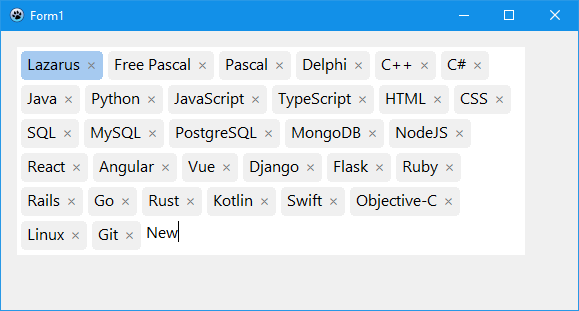
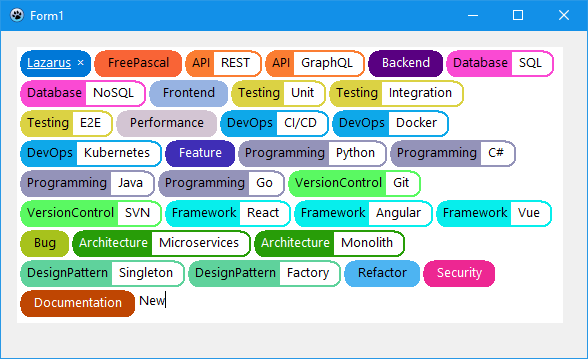
Update README.md

diff --git a/README.md b/README.md
@@ -12,6 +12,7 @@ A versatile tag management control for Lazarus/FPC with advanced features.
 
 - **🏷 Tag Management**
   - Add tags by typing and pressing Enter
+  - Tags with suffix
   - Remove tags with click confirmation
   - Prevent duplicate tags
 
@@ -24,6 +25,8 @@ A versatile tag management control for Lazarus/FPC with advanced features.
   - Custom tag colors and hover effects
   - Adjustable border styles and widths
   - Rounded corners support
+  - Random color for tag name if not defined
+  - Tag color collection, assigns colors based on tag name match
   - Font and size customization
 
 - **📐 Smart Layout**
@@ -47,28 +50,57 @@ A versatile tag management control for Lazarus/FPC with advanced features.
 
 | Property | Type | Description |
 |----------|------|-------------|
-| `Items` | TStringList | Collection of tag strings |
+| `Align` | TAlign | Control alignment within parent |
+| `Anchors` | TAnchors | Anchor points for responsive layout |
+| `AutoColorBrightness` | Integer | Brightness percentage for auto-generated tag colors (0-100) |
 | `AutoSizeHeight` | Boolean | Auto-adjust height based on content |
-| `TagColor` | TColor | Background color of tags |
-| `TagHoverColor` | TColor | Color on mouse hover |
-| `TagBorderColor` | TColor | Border color of tags |
-| `TagBorderWidth` | Integer | Border width of tags |
 | `BorderColor` | TColor | Component border color |
 | `BorderWidth` | Integer | Component border width |
-| `RoundCorners` | Integer | Corner radius for tags |
+| `CloseButtons` | Boolean | Show close buttons on tags |
+| `CloseButtonOnHover` | Boolean | Show close buttons only on hover |
+| `Color` | TColor | Background color of the component |
 | `EditMinWidth` | Integer | Minimum width of edit box |
-| `RemoveConfirm` | Boolean | Show confirmation when removing tags |
-| `RemoveConfirmTitle` | String | Title for remove confirmation dialog |
-| `RemoveConfirmMessage` | String | Message for remove confirmation dialog |
-| `ParentFont` | Boolean | Use parent component's font |
-| `ReadOnly` | Boolean | Read-only mode (no tag editing) |
+| `Enabled` | Boolean | Enable/disable the component |
 | `Font` | TFont | Font used for tags and edit box |
+| `Height` | Integer | Component height |
+| `Items` | TStringList | Collection of tag strings |
+| `ParentFont` | Boolean | Use parent component's font |
+| `PopupMenu` | TPopupMenu | Popup menu for the component |
+| `ReadOnly` | Boolean | Read-only mode (no tag editing) |
+| `RemoveConfirm` | Boolean | Show confirmation when removing tags |
+| `RemoveConfirmMessage` | String | Message for remove confirmation dialog |
+| `RemoveConfirmTitle` | String | Title for remove confirmation dialog |
+| `RoundCorners` | Integer | Corner radius for tags |
+| `ShowHint` | Boolean | Show hint tooltips |
+| `Tag` | Integer | User-defined tag value |
+| `TagBorderColor` | TColor | Border color of tags |
+| `TagBorderWidth` | Integer | Border width of tags |
+| `TagColor` | TColor | Background color of tags |
+| `TagColors` | TTagColorItems | Collection of custom tag colors |
+| `TagHoverColor` | TColor | Color on mouse hover |
+| `TagHoverUnderline` | Boolean | Underline tag text on hover |
+| `TagSuffixColor` | TColor | Background color for tag suffix (after colon) |
+| `Visible` | Boolean | Control visibility |
+| `Width` | Integer | Component width |
 
 ## Events
 
-- `OnTagAdd` - Fired when a tag is added
-- `OnTagRemove` - Fired when a tag is removed  
-- `OnTagClick` - Fired when a tag is clicked
+| Event | Type | Description |
+|-------|------|-------------|
+| `OnClick` | TNotifyEvent | Occurs when component is clicked |
+| `OnDblClick` | TNotifyEvent | Occurs when component is double-clicked |
+| `OnKeyDown` | TKeyEvent | Occurs when key is pressed |
+| `OnKeyPress` | TKeyPressEvent | Occurs when key is pressed (character) |
+| `OnKeyUp` | TKeyEvent | Occurs when key is released |
+| `OnMouseDown` | TMouseEvent | Occurs when mouse button is pressed |
+| `OnMouseEnter` | TNotifyEvent | Occurs when mouse enters component |
+| `OnMouseLeave` | TNotifyEvent | Occurs when mouse leaves component |
+| `OnMouseMove` | TMouseMoveEvent | Occurs when mouse moves over component |
+| `OnMouseUp` | TMouseEvent | Occurs when mouse button is released |
+| `OnTagAdd` | TTagEvent | Occurs when a new tag is added |
+| `OnTagClick` | TTagEvent | Occurs when a tag is clicked |
+| `OnTagPopup` | TTagPopupEvent | Occurs when context menu is requested for a tag |
+| `OnTagRemove` | TTagEvent | Occurs when a tag is removed |
 
 # Installation
 
